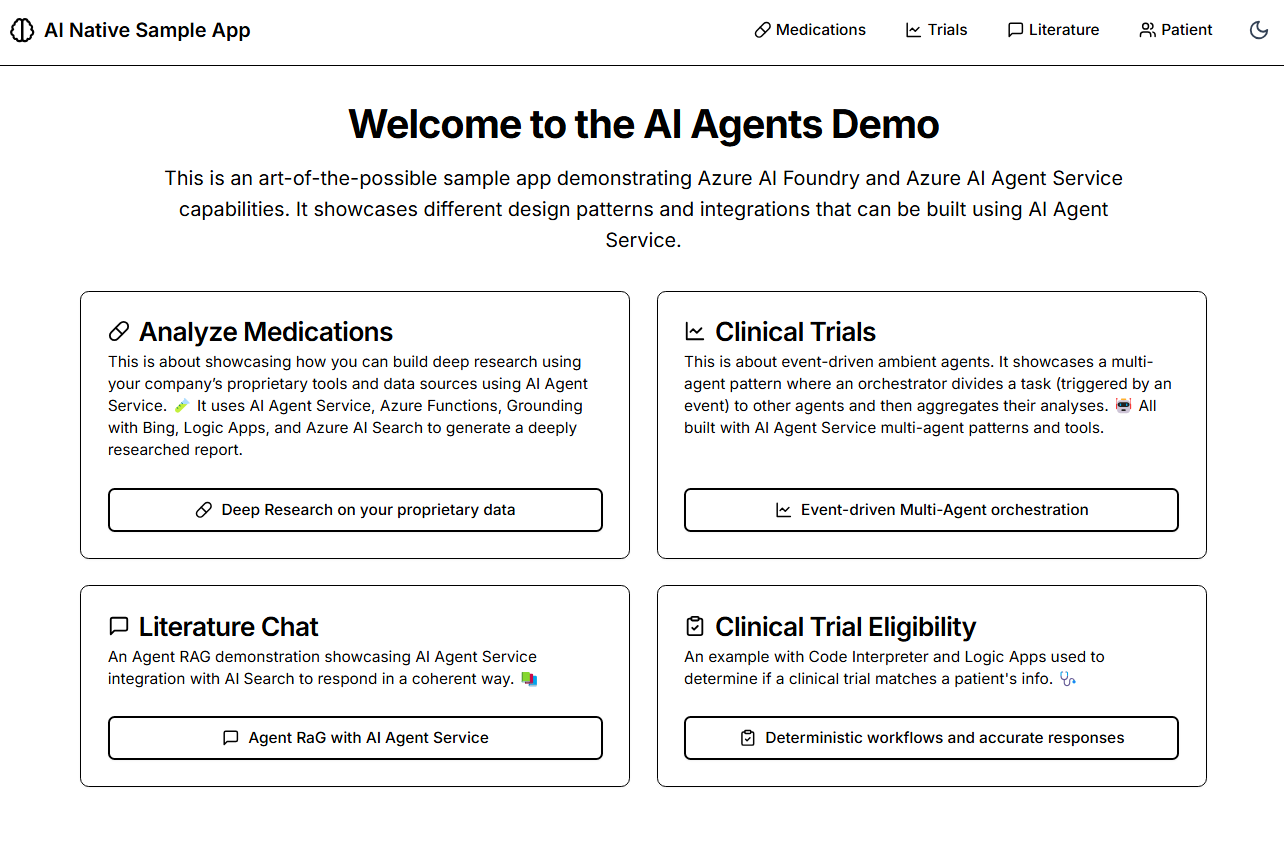
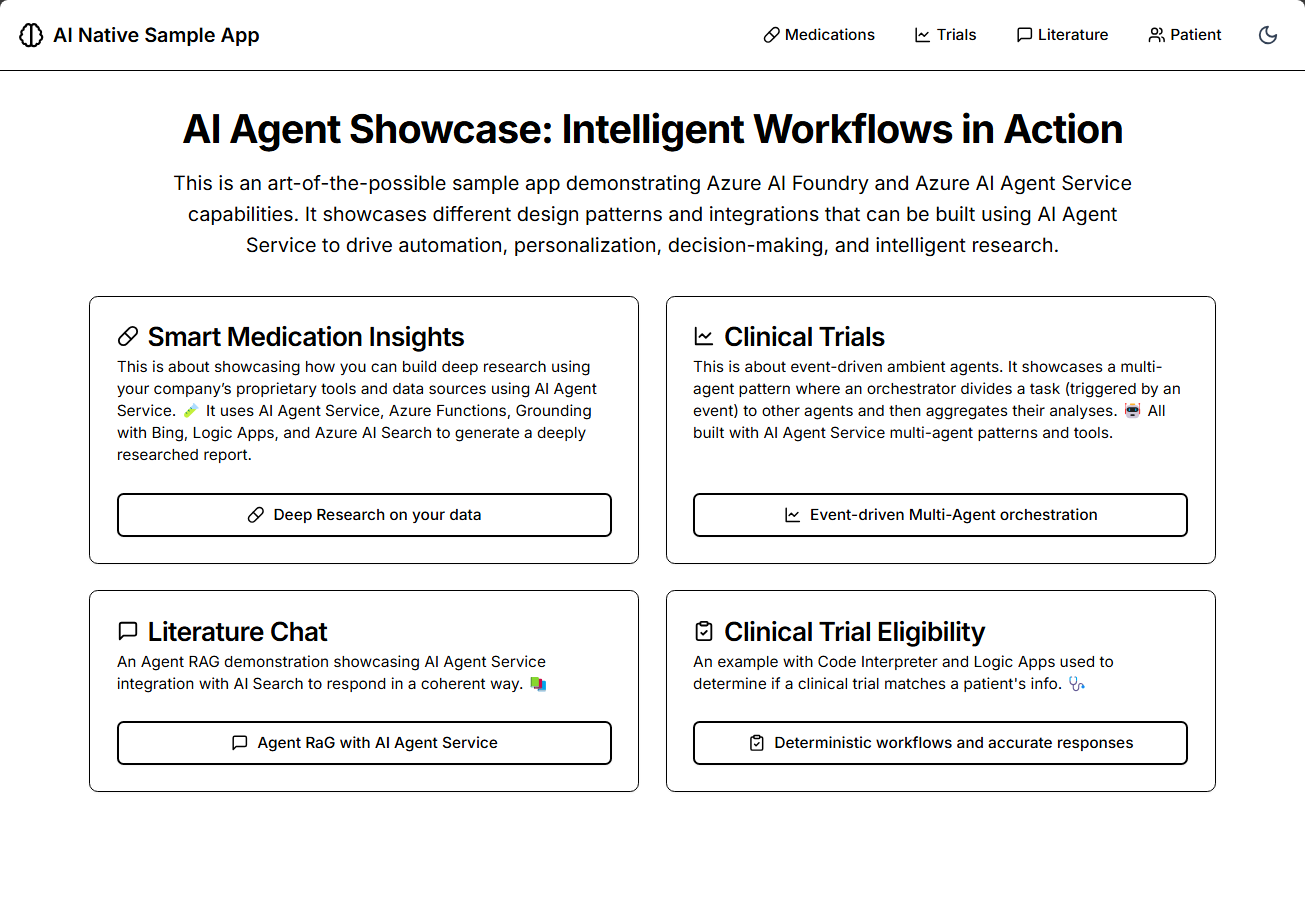
minor update to home page

diff --git a/3-ai-native-e2e-sample/frontend/src/pages/home.tsx b/3-ai-native-e2e-sample/frontend/src/pages/home.tsx
@@ -18,10 +18,10 @@ export function HomePage() {
     {
       to: "/medication",
       icon: <Pill className="h-5 w-5" />,
-      title: "Analyze Medications",
+      title: "Smart Medication Insights",
       desc: `This is about showcasing how you can build deep research using your company’s proprietary tools and data sources using AI Agent Service. 🧪 
         It uses AI Agent Service, Azure Functions, Grounding with Bing, Logic Apps, and Azure AI Search to generate a deeply researched report.`,
-      buttonText: "Deep Research on your proprietary data",
+      buttonText: "Deep Research on your data",
       buttonIcon: <Pill className="h-4 w-4" />,
     },
     {
@@ -55,11 +55,11 @@ export function HomePage() {
     <div className="space-y-8">
       {/* Centered main copy */}
       <div className="text-center space-y-4 max-w-4xl mx-auto">
-        <h1 className="text-4xl font-bold">Welcome to the AI Agents Demo</h1>
+        <h2 className="text-4xl font-bold">AI Agent Showcase: Intelligent Workflows in Action</h2>
         <p className="text-muted-foreground text-base sm:text-lg">
           This is an art-of-the-possible sample app demonstrating Azure AI Foundry
           and Azure AI Agent Service capabilities. It showcases different design
-          patterns and integrations that can be built using AI Agent Service.
+          patterns and integrations that can be built using AI Agent Service to drive automation, personalization, decision-making, and intelligent research.
         </p>
       </div>
 

diff --git a/README.md b/README.md
@@ -15,25 +15,25 @@ A hands-on workshop that guides you through building intelligent apps and AI age
 - Deploy and test AI models
 - Build AI agents (health advisor examples)
 - Implement health calculations and dietary planning
-- Evaluate agent performance with safety checks
+- Evaluate agent performance and monitor quality attributes
+- Deploy an end-to-end AI native sample app that incorporates all these capabilities and design patterns
 
-> **Duration**: 2-4 hours  
+> **Duration**: 4-5 hours  
 > **Focus**: Hands-on exercises, interactive notebooks, practical examples, end-to-end project
 
 ## 📸 Visuals
 
 ### Sections Overview
 ![Sections](sections.png)
-*Figure 1: Overview of different sections in the Azure AI Foundry Workshop.*
+*Figure 1: Overview of different sections in this workshop.*
 
 ### End-to-End Sample UI
 ![e2esample](./3-ai-native-e2e-sample/assets/ui.png)
 *Figure 2: User interface of the end-to-end AI native sample project.*
 
-These visuals provide a quick glance at the structure and user interface elements you will encounter throughout the workshop.
 ---
 
-## 📦 Prerequisites
+## 📦 Prerequisites    
 
 Before starting the workshop, ensure you have:
 
